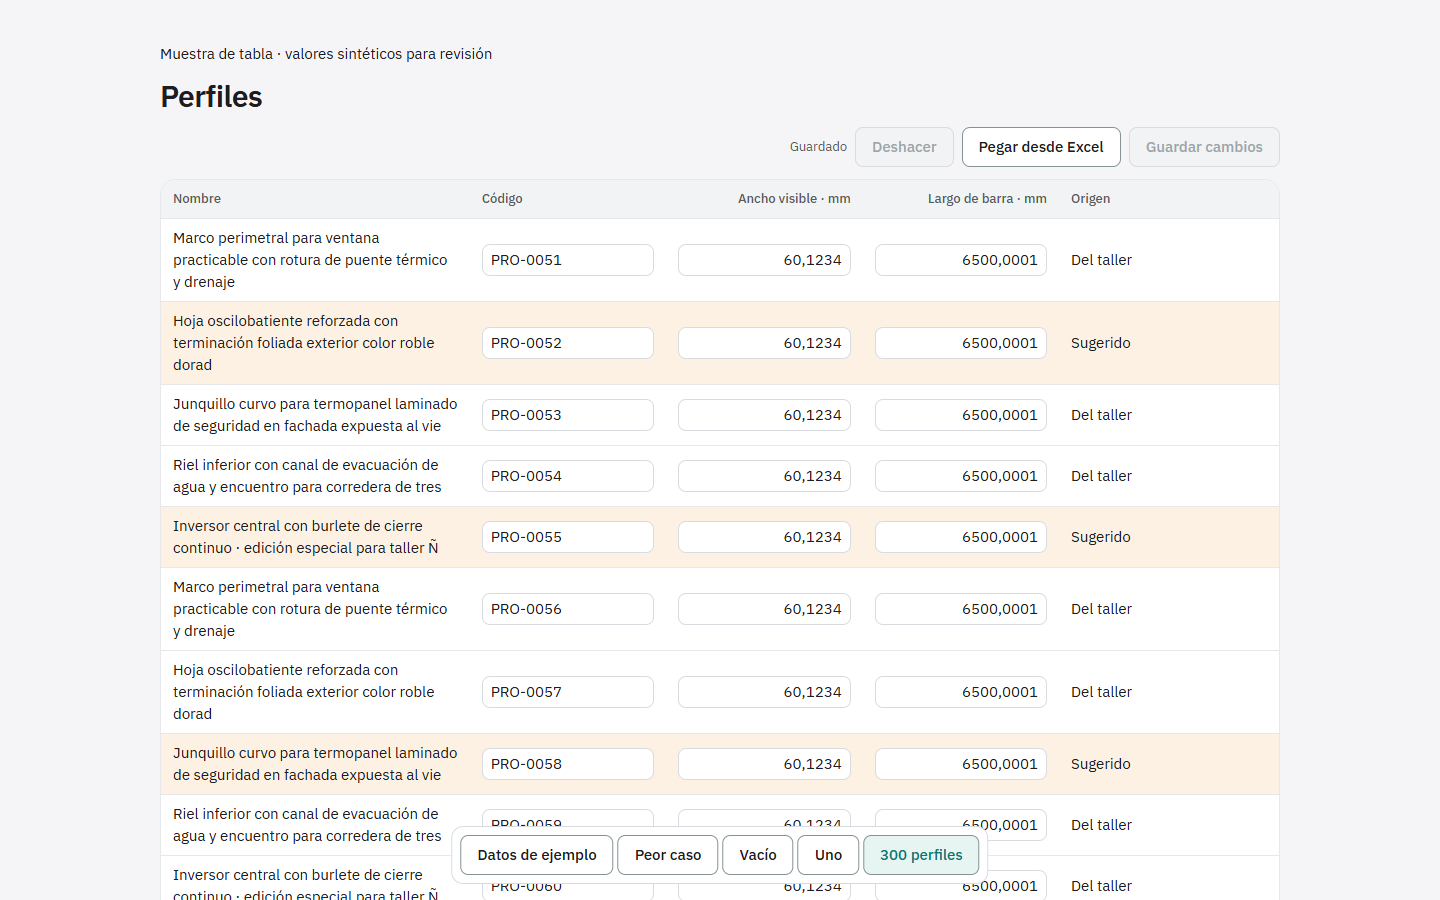
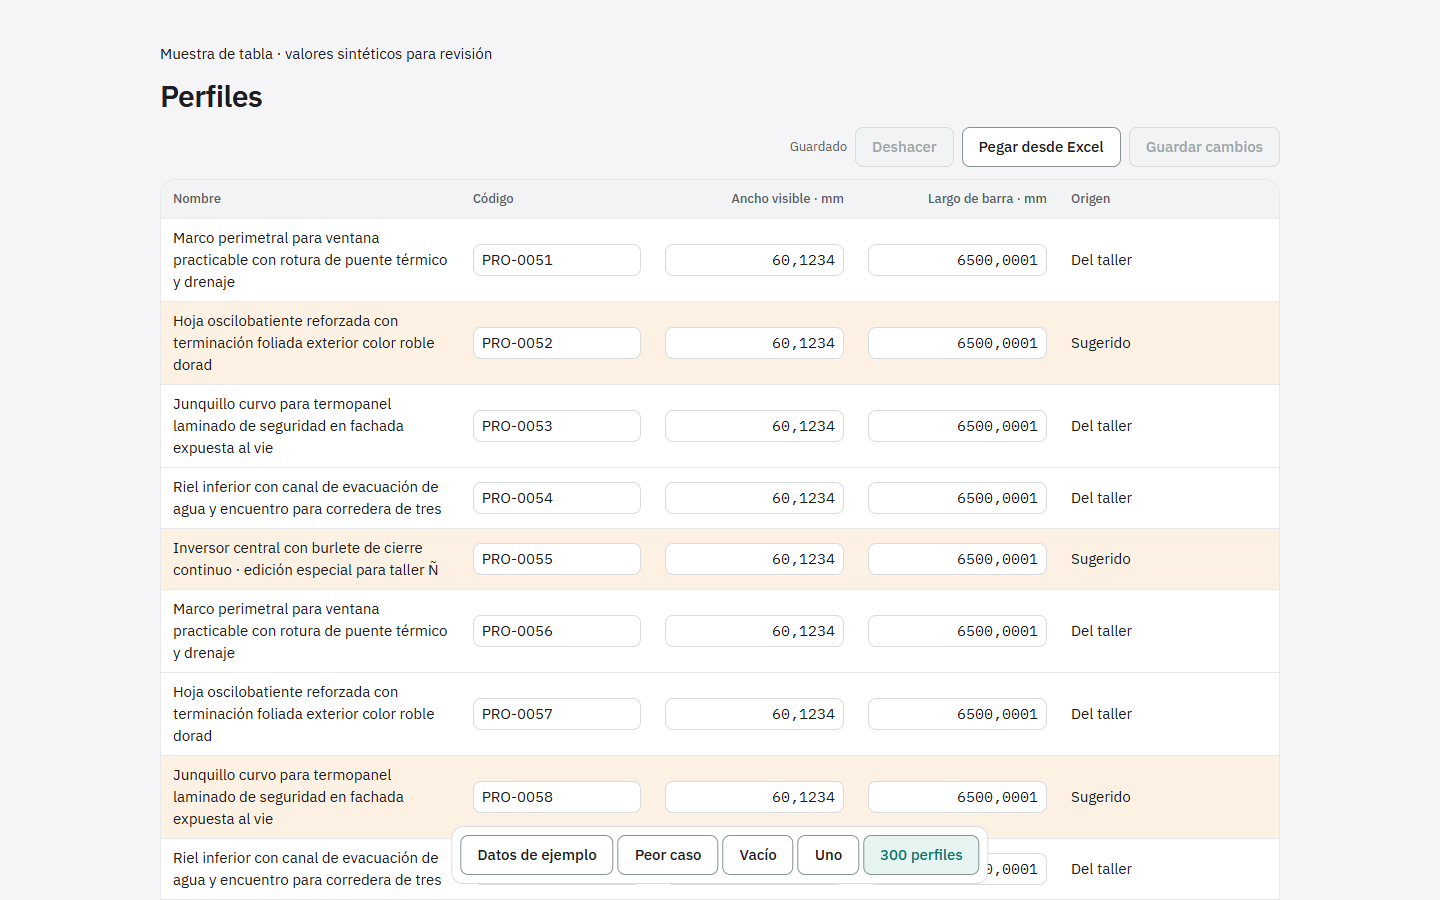
Aplica Mono tabular y renueva la aceptación de la tabla
Las cuatro pruebas de navegador pasan a 1440 y 390 con el formato final de las celdas numéricas.

diff --git a/frontend/src/ui/EditableTable.css b/frontend/src/ui/EditableTable.css
@@ -90,6 +90,10 @@
   background: transparent;
 }
 
+.ui-editable-table td.is-number input[data-cell] {
+  font-family: var(--font-mono);
+}
+
 .ui-editable-table input[aria-invalid] {
   border-color: var(--danger-base);
 }

diff --git a/docs/redesign/captures/dk2-p02a/aceptacion.md b/docs/redesign/captures/dk2-p02a/aceptacion.md
@@ -20,7 +20,7 @@ la página no se desborda. Los controles de ensayo son exclusivos de desarrollo.
 
 Las diez capturas fueron abiertas e inspeccionadas. Playwright aprueba cuatro
 pruebas en ambos tamaños, incluyendo axe WCAG A/AA/2.1 AA y ancho de página.
-Carga local de desarrollo desde navegación hasta tabla visible: 418–831 ms;
+Carga local de desarrollo desde navegación hasta tabla visible: 340–722 ms;
 no es una medición de red móvil ni una promesa de producción.
 
 Trece pruebas unitarias verifican precisión textual de cuatro decimales y enteros
@@ -35,6 +35,8 @@ El build comprueba que la ruta de desarrollo no llega al producto.
 - Jerarquía y siguiente acción claras; una sola acción de guardar por tabla.
 - Campos editables distinguibles, foco global visible y teclado completo.
 - Números como texto exacto: ninguna cifra se calcula en el componente.
+- Las celdas numéricas usan IBM Plex Mono y cifras tabulares; las diez capturas
+  se renovaron después de aplicar esa tipografía.
 - Texto, estructura y tono además del color; contraste AA aprobado con axe.
 - Sin movimiento añadido. La tabla usa los controles y diálogos existentes.
 - Pendiente del conjunto P02: ficha real, precios auditados, confirmación y
